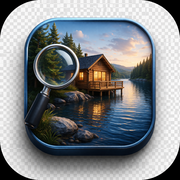
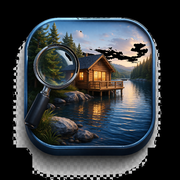
Replace gray corners with black — pixel-level fix
Source PNG had opaque gray pixels in corners (not transparency).
Used numpy to detect neutral gray pixels in corner regions and
replace with pure black. All 4 corners verified (0,0,0). Cache v=4.

diff --git a/index.html b/index.html
@@ -6,12 +6,12 @@
 <title>Pocono Lakehouse Search — Jerry & Theresa's 2nd Home</title>
 
 <!-- App Icon & Web App Meta -->
-<link rel="apple-touch-icon" href="icon-180.png?v=3">
-<link rel="apple-touch-icon" sizes="180x180" href="icon-180.png?v=3">
-<link rel="apple-touch-icon" sizes="152x152" href="icon-180.png?v=3">
-<link rel="apple-touch-icon" sizes="120x120" href="icon-180.png?v=3">
-<link rel="icon" type="image/png" sizes="180x180" href="icon-180.png?v=3">
-<link rel="icon" type="image/png" sizes="32x32" href="icon-180.png?v=3">
+<link rel="apple-touch-icon" href="icon-180.png?v=4">
+<link rel="apple-touch-icon" sizes="180x180" href="icon-180.png?v=4">
+<link rel="apple-touch-icon" sizes="152x152" href="icon-180.png?v=4">
+<link rel="apple-touch-icon" sizes="120x120" href="icon-180.png?v=4">
+<link rel="icon" type="image/png" sizes="180x180" href="icon-180.png?v=4">
+<link rel="icon" type="image/png" sizes="32x32" href="icon-180.png?v=4">
 <meta name="apple-mobile-web-app-capable" content="yes">
 <meta name="apple-mobile-web-app-status-bar-style" content="black-translucent">
 <meta name="apple-mobile-web-app-title" content="Pocono Search">
